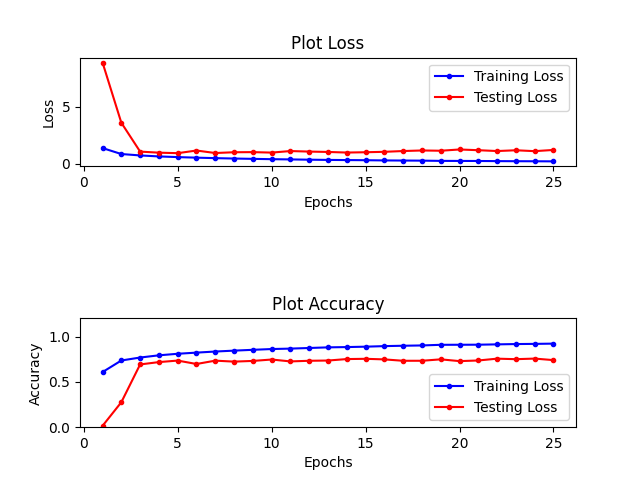
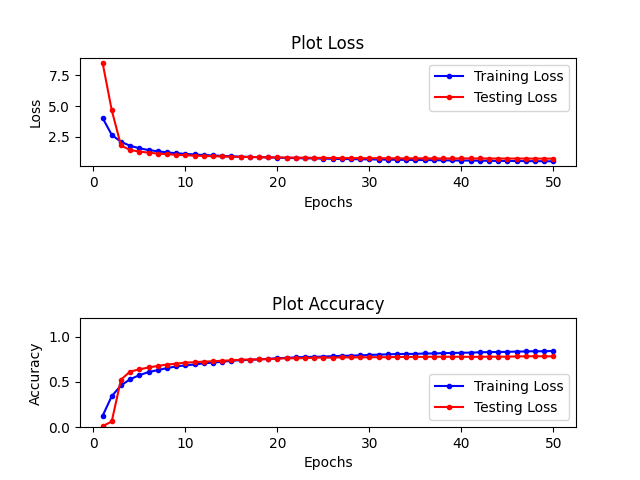
running hyperparameters for ResNet for table data

diff --git a/train.py b/train.py
@@ -69,7 +69,7 @@ testing_generator = datagen.flow(x_test, y_test, batch_size=64)
 model.compile(loss='sparse_categorical_crossentropy',
               optimizer=tf.keras.optimizers.Adam(learning_rate=0.0001), metrics='accuracy')
 
-history = model.fit(x_train, y_train, epochs=250, validation_data=testing_generator, batch_size=128, shuffle=True, callbacks=[early_stopping])
+history = model.fit(x_train, y_train, epochs=50, validation_data=testing_generator, batch_size=128, shuffle=True, callbacks=[early_stopping])
 
 training_loss = history.history["loss"]
 testing_loss = history.history["val_loss"]

diff --git a/Models/resnet/architecture.py b/Models/resnet/architecture.py
@@ -26,7 +26,7 @@ class Network():
 
         x =  base_model(x)
         x = GlobalAveragePooling2D()(x)
-        x = Dropout(0.25)(x)
+        x = Dropout(0.50)(x)
         x = Dense(256, activation='relu')(x)
         x = BatchNormalization()(x)
         output = Dense(100, activation='softmax')(x)

diff --git a/main_pca.py b/main_pca.py
@@ -112,7 +112,7 @@ sns.scatterplot(
     hue = "Label",
     palette = sns.color_palette("Set2", as_cmap=True),
     data = principal_cifar_Df,
-    legend = "full",
+    #legend = "full",
     alpha = 1.0
 )
 
